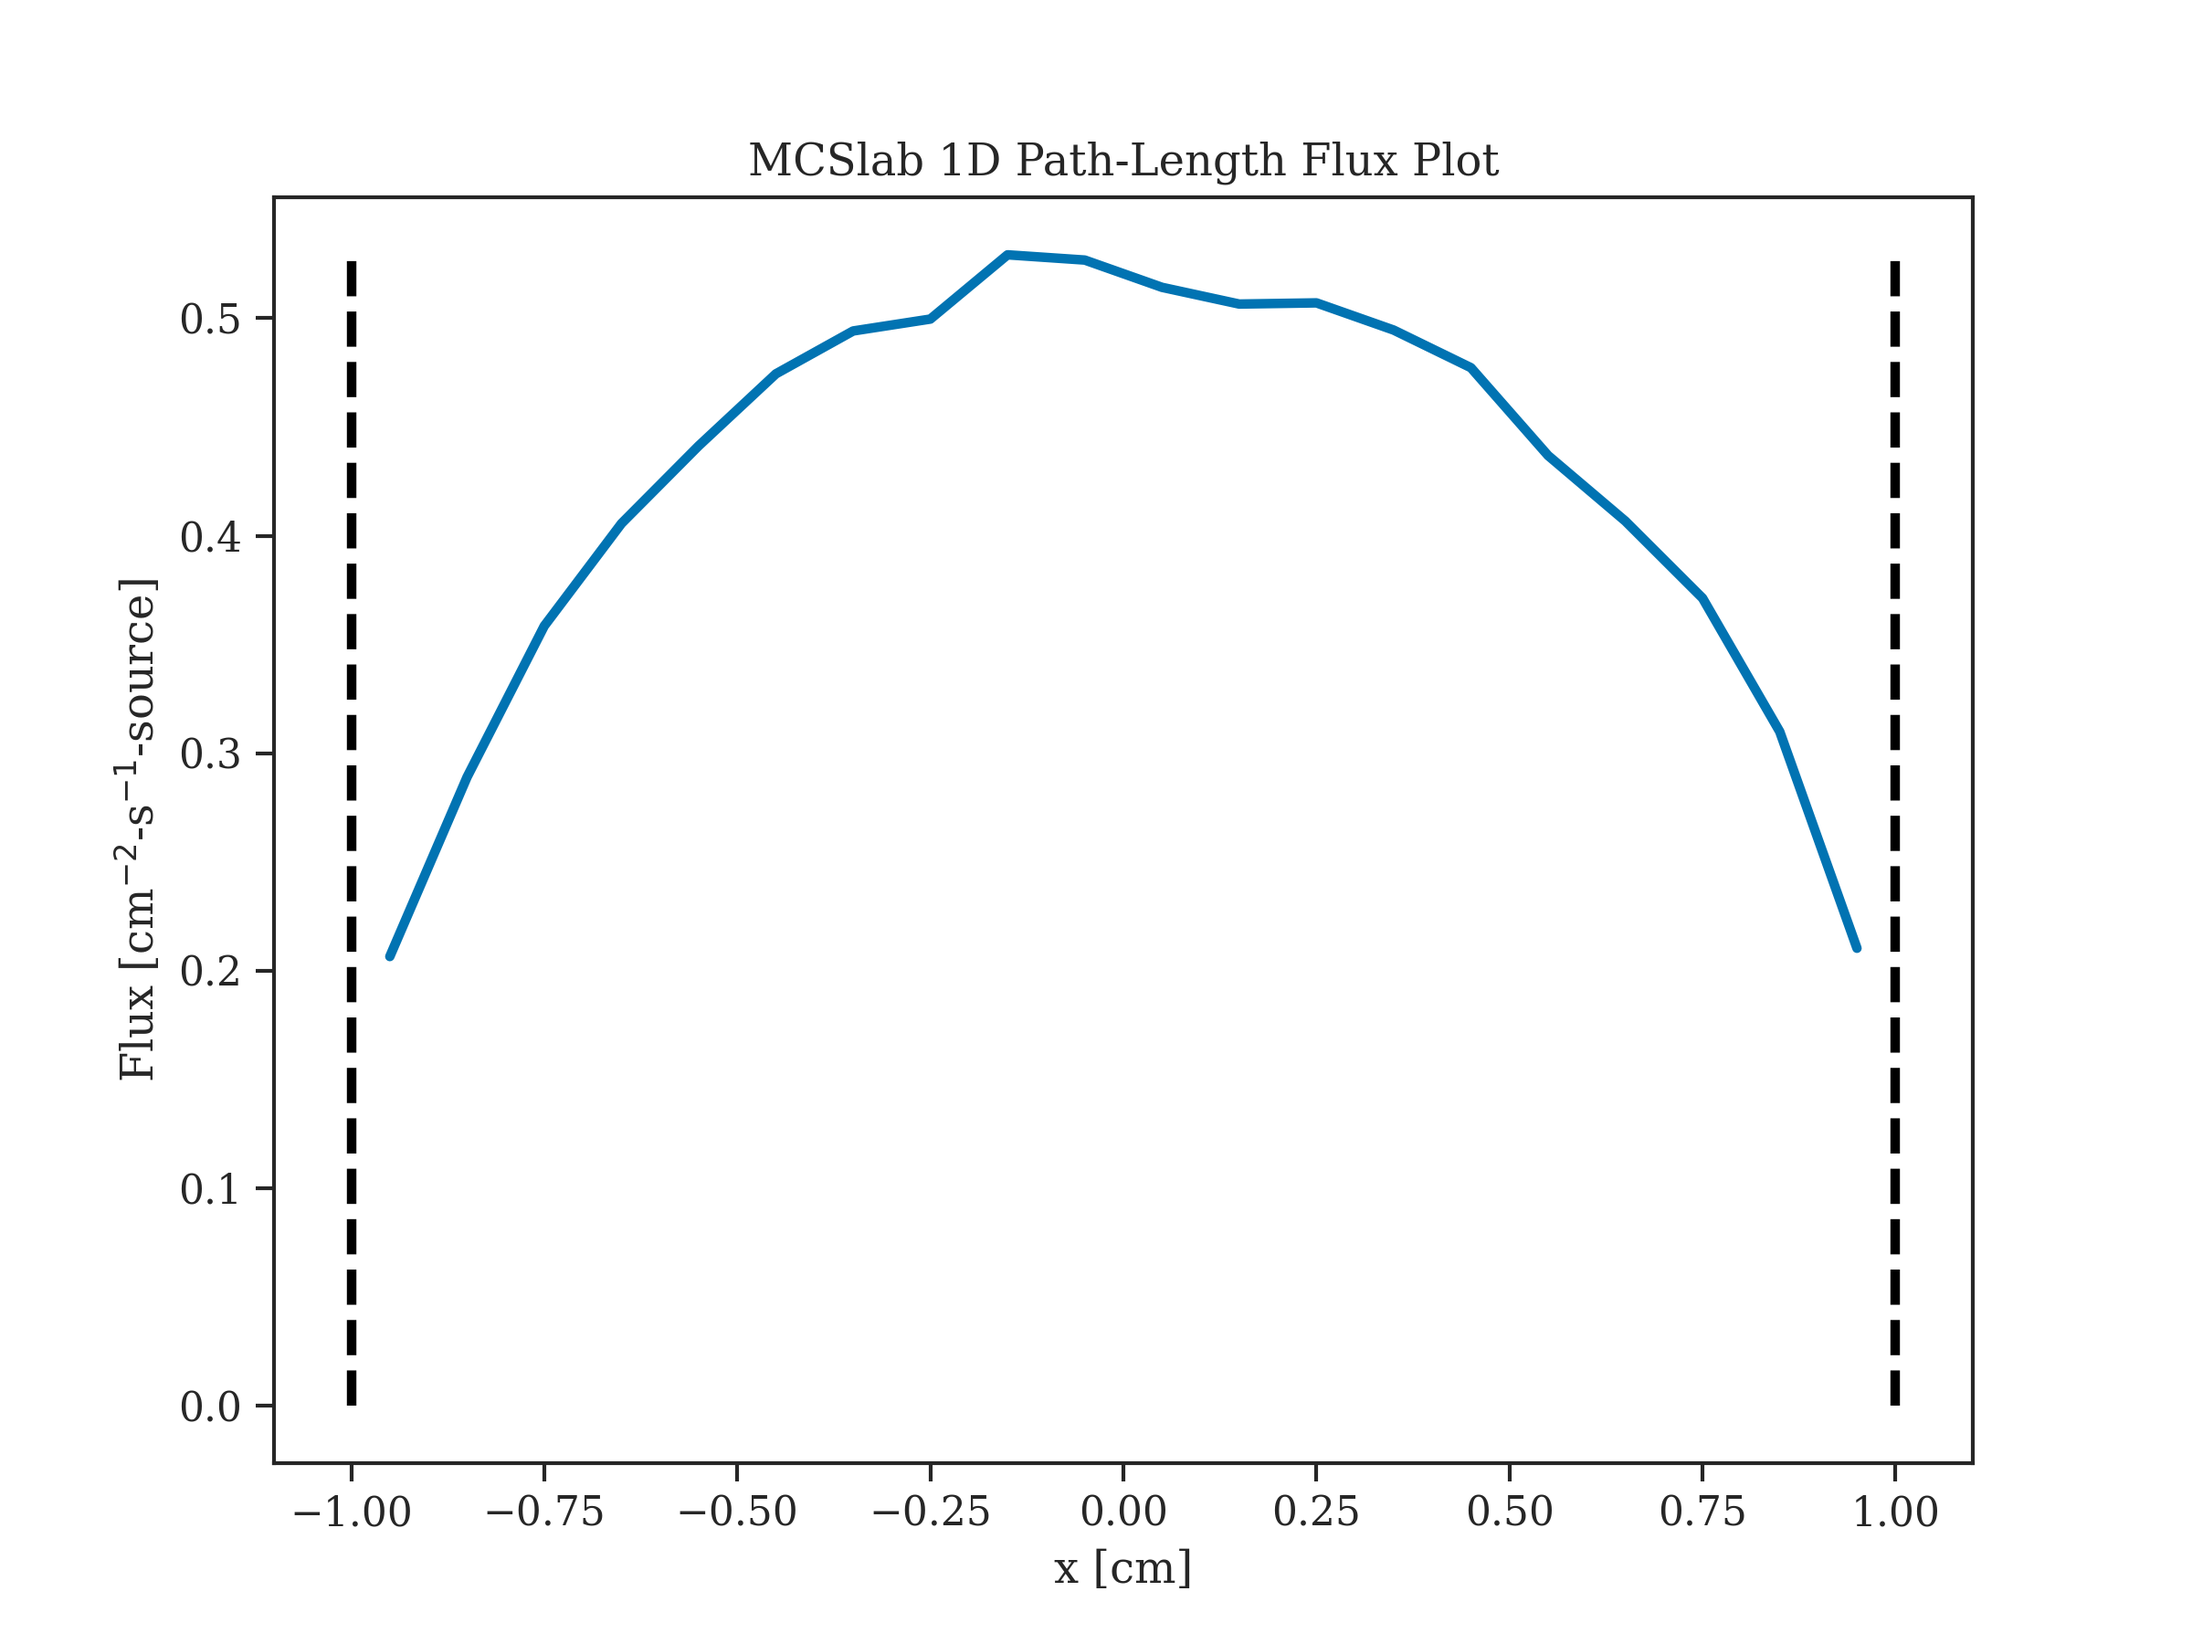
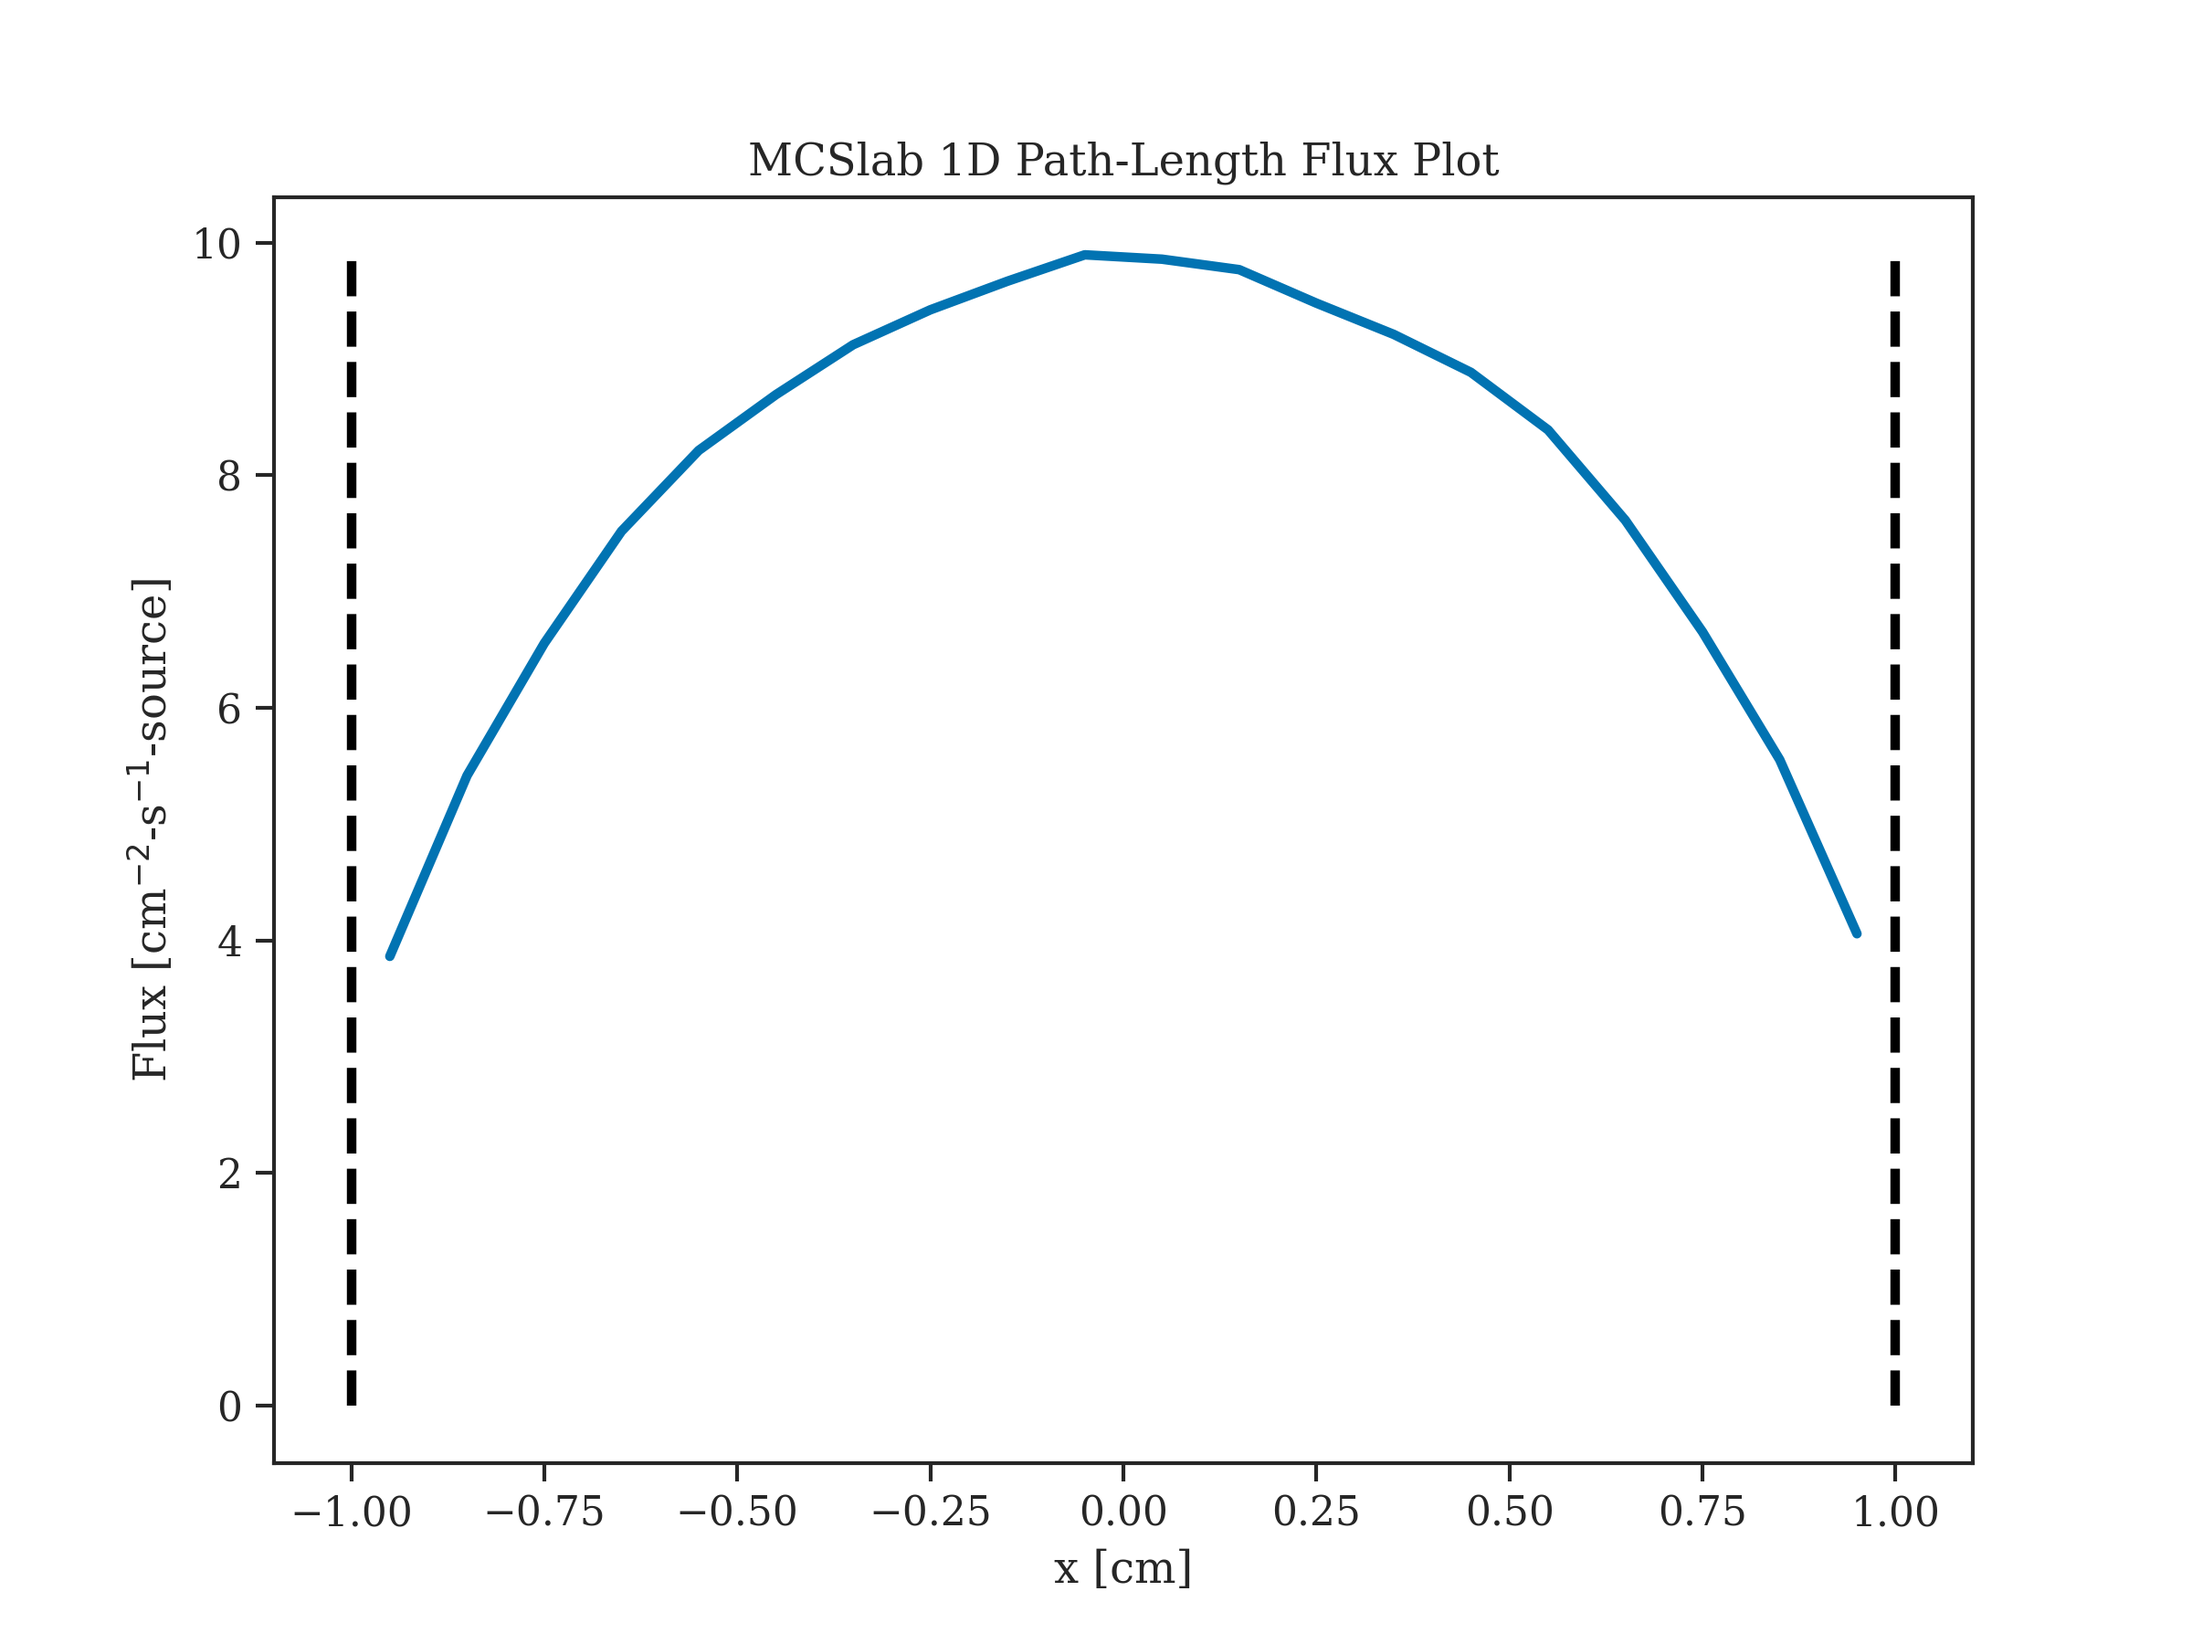
update flux to track over all active cycles

diff --git a/MCSlab/src/MCSlab.cpp b/MCSlab/src/MCSlab.cpp
@@ -99,7 +99,7 @@ void MCSlab::k_eigenvalue() {
           // neutron has reached edge of region
           unsigned int current_index = neutron.region().regionIndex();
           if (neutron.mu() > 0) {
-            if (i == _n_generations - 1)
+            if (i > _n_inactive)
               updatePathLengths(flux_pl_bins, neutron.pos(),
                                 _regions[current_index].xMax(), neutron.mu());
             if (current_index == _regions.size() - 1)
@@ -112,7 +112,7 @@ void MCSlab::k_eigenvalue() {
                 new_index++; // skip over void regions
 
               double new_position = _regions[new_index].xMin();
-              if (i == _n_generations - 1) {
+              if (i >_n_inactive) {
                 if (new_position != _regions[current_index].xMax())
                   updatePathLengths(flux_pl_bins,
                                     _regions[current_index].xMax(),
@@ -121,7 +121,7 @@ void MCSlab::k_eigenvalue() {
               neutron.movePositionAndRegion(new_position, _regions);
             }
           } else {
-            if (i == _n_generations - 1)
+            if (i >_n_inactive)
               updatePathLengths(flux_pl_bins, neutron.pos(),
                                 _regions[current_index].xMin(), neutron.mu());
             if (current_index == 0)
@@ -134,7 +134,7 @@ void MCSlab::k_eigenvalue() {
                 new_index--; // skip over void regions
 
               double new_position = _regions[new_index].xMax();
-              if (i == _n_generations - 1) {
+              if (i >_n_inactive) {
                 if (new_position != _regions[current_index].xMin())
                   updatePathLengths(flux_pl_bins,
                                     _regions[current_index].xMin(),
@@ -151,7 +151,7 @@ void MCSlab::k_eigenvalue() {
           updateCollisions(flux_col_bins, collision_location);
 
           // update pathlength (regardless of scatter or absorption)
-          if (i == _n_generations - 1)
+          if (i >_n_inactive)
             updatePathLengths(flux_pl_bins, neutron.pos(), collision_location,
                               neutron.mu());
 
